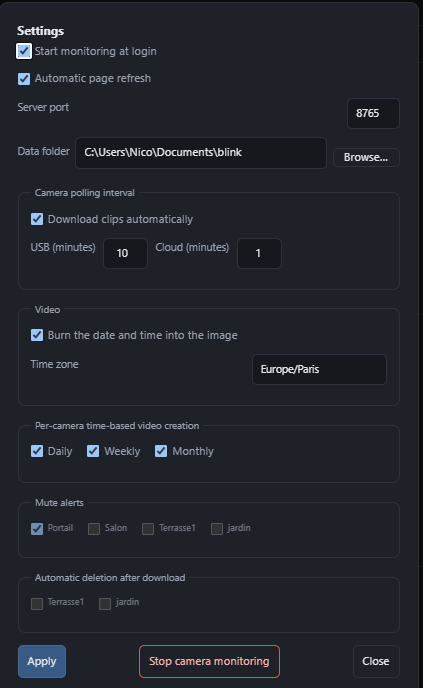
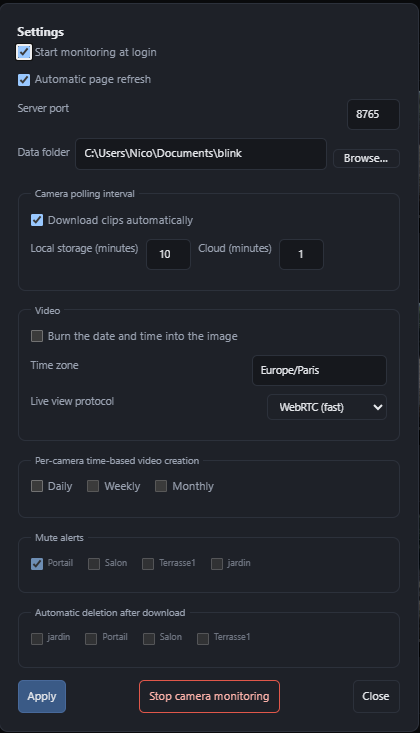
docs: captures d'ecran des reglages a jour, protocole du direct et suppression auto mentionnes au texte
Screenshots/settings.PNG et .fr.PNG mis a jour par Nico (protocole WebRTC
visible, panneau Suppression automatique confirmant le fix des cameras
dupliquees). Le texte descriptif du README, dans les deux langues,
n'avait jamais mentionne ces deux reglages pourtant deja presents sur
les captures precedentes : complete au passage.

Claude-Session: https://claude.ai/code/session_01PWFGgT4TFw7HoeZPfSbj8w

diff --git a/README.fr.md b/README.fr.md
@@ -84,9 +84,11 @@ Les réglages, derrière l'icône engrenage : démarrage automatique à
 l'ouverture de session, actualisation automatique de la page, port du
 serveur, dossier des données avec un sélecteur natif, et cadence de lecture
 du stockage local et du cloud. Aussi l'horodatage incrusté dans l'image, le
-fuseau horaire, l'archivage quotidien/hebdomadaire/mensuel activable
-indépendamment, la mise en sourdine des alertes par caméra, et un bouton
-pour arrêter toute la surveillance sans passer par le mode CLI.
+fuseau horaire, le protocole du direct (WebRTC ou MSE), l'archivage
+quotidien/hebdomadaire/mensuel activable indépendamment, la mise en
+sourdine des alertes par caméra, la suppression automatique après
+téléchargement par caméra, et un bouton pour arrêter toute la surveillance
+sans passer par le mode CLI.
 
 ## Démarrer
 

diff --git a/README.md b/README.md
@@ -74,9 +74,10 @@ remembered between visits.
 Settings, behind the gear icon: automatic startup with the session, automatic
 page refresh, server port, data folder with a native folder picker, and local
 storage and cloud polling cadence. Also timestamp burned into the picture,
-time zone, daily/weekly/monthly archiving toggled independently per period,
-per-camera alert muting, and a button to stop the whole thing without
-touching the command line.
+time zone, the live view protocol (WebRTC or MSE), daily/weekly/monthly
+archiving toggled independently per period, per-camera alert muting,
+automatic deletion after download per camera, and a button to stop the
+whole thing without touching the command line.
 
 ## Getting started
 
